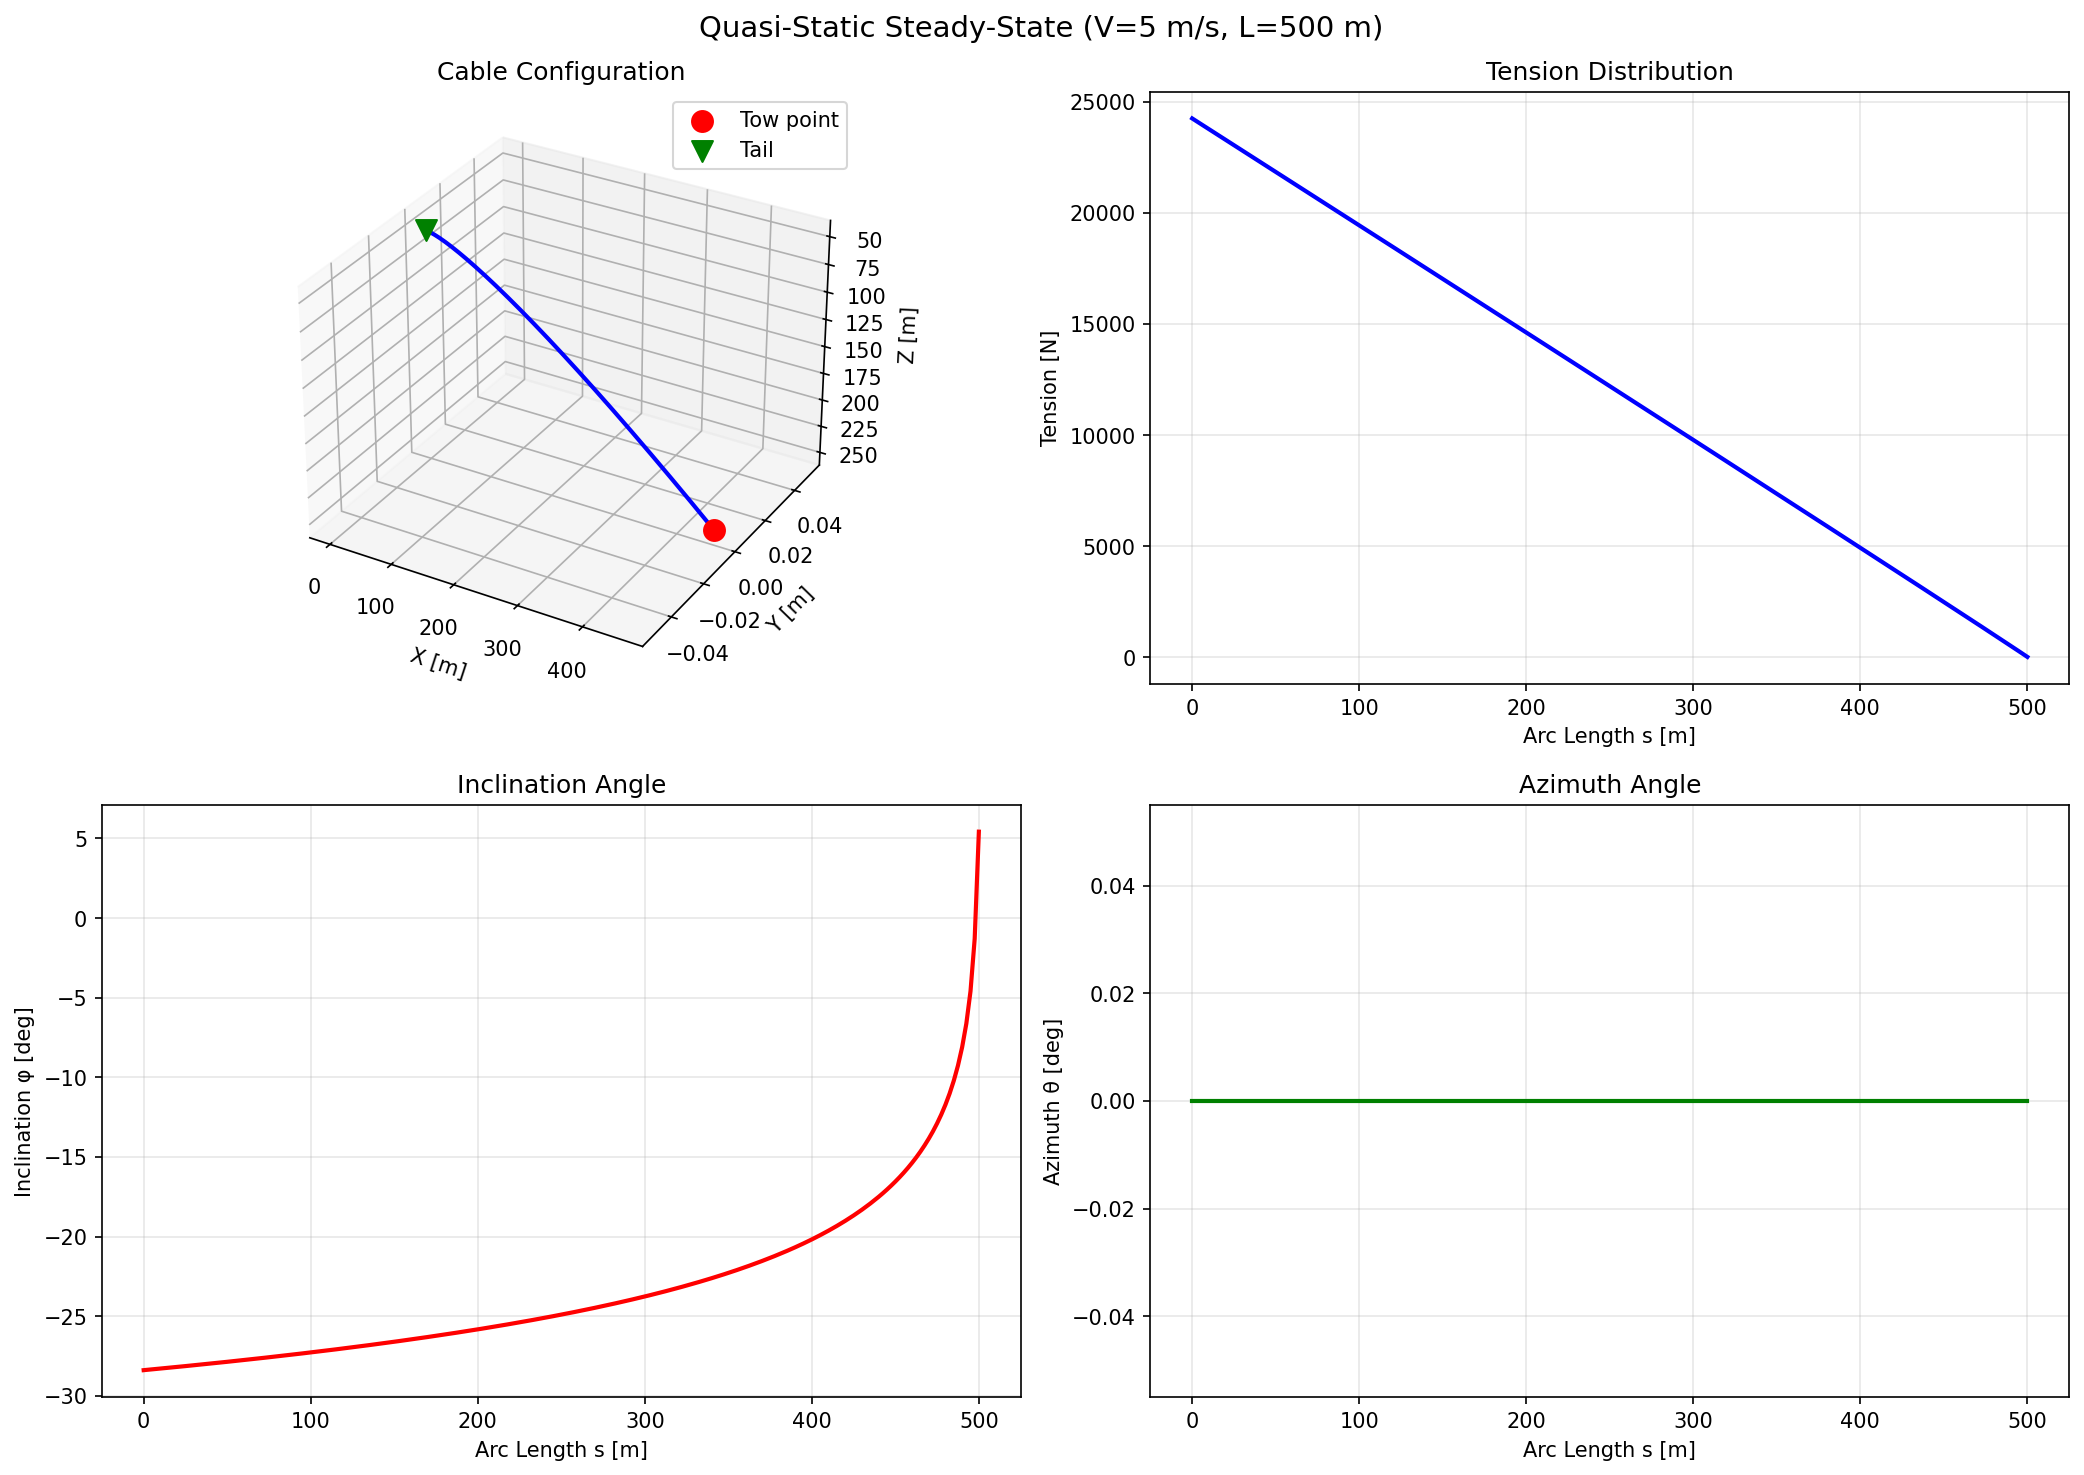
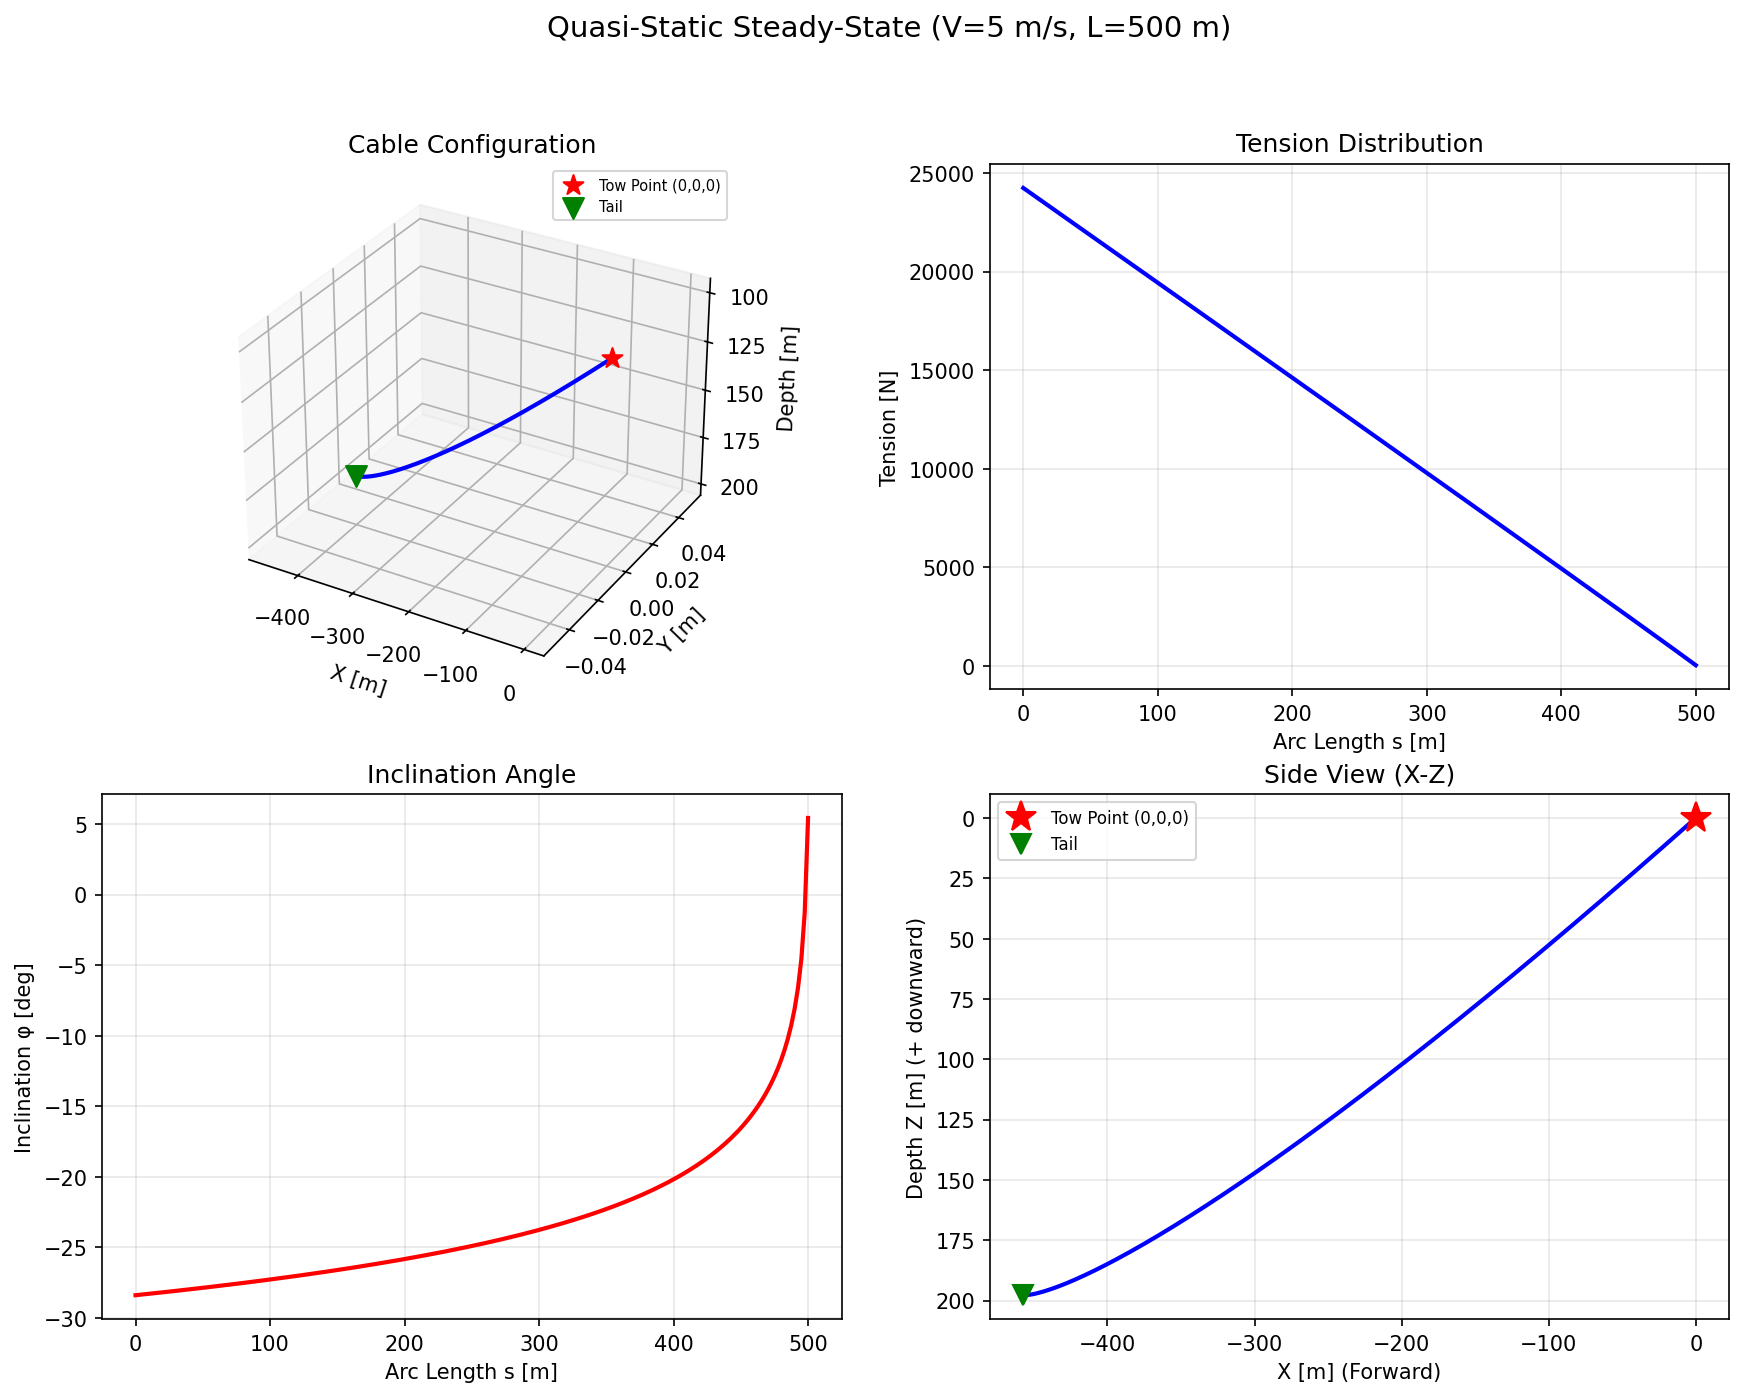
Fix coordinate system: tow point at origin, Z+ = depth downward
- Quasi-static solver now shifts positions so tow point is at (0,0,0)
- Z axis convention: positive Z = depth (downward from tow point)
- Trajectory depth defaults to 0 (tow point at origin)
- Updated all visualizations for consistent Z+ = depth display
- Side view correctly shows cable hanging below tow point

https://claude.ai/code/session_01HiJZDsfaCU8hXaw1C4XUdp

diff --git a/tass_visualization.py b/tass_visualization.py
@@ -3,6 +3,11 @@ TASS Motion Analysis Visualization Module
 ==========================================
 
 Provides 2D and 3D visualization of towed array sonar system simulation results.
+
+Coordinate convention:
+  - X: forward (tow direction)
+  - Y: lateral (starboard positive)
+  - Z: depth (downward positive, Z=0 at tow point)
 """
 
 import numpy as np
@@ -18,11 +23,7 @@ def plot_cable_3d(results: dict, time_indices: Optional[list] = None,
                   save_path: Optional[str] = None):
     """
     Plot 3D cable configurations at selected time steps.
-
-    Args:
-        results: simulation results dictionary
-        time_indices: list of time indices to plot (None = auto-select)
-        save_path: path to save figure (None = show)
+    Z+ = depth (downward). Tow point at origin.
     """
     fig = plt.figure(figsize=(14, 10))
     ax = fig.add_subplot(111, projection='3d')
@@ -41,27 +42,34 @@ def plot_cable_3d(results: dict, time_indices: Optional[list] = None,
         pos = positions[idx]
         t = times[idx]
         color = cmap(norm(t))
-        ax.plot(pos[:, 0], pos[:, 1], pos[:, 2],
+        # Plot with -Z so depth appears downward visually in 3D
+        ax.plot(pos[:, 0], pos[:, 1], -pos[:, 2],
                 color=color, alpha=0.7, linewidth=1.5,
                 label=f't = {t:.0f} s')
-        # Mark tow point
-        ax.scatter(*pos[0], color=color, s=30, marker='o')
-        # Mark tail
-        ax.scatter(*pos[-1], color=color, s=20, marker='v')
+        ax.scatter(pos[0, 0], pos[0, 1], -pos[0, 2],
+                   color=color, s=30, marker='o')
+        ax.scatter(pos[-1, 0], pos[-1, 1], -pos[-1, 2],
+                   color=color, s=20, marker='v')
 
     # Plot tow point trajectory
     tow_pts = results['tow_points']
-    ax.plot(tow_pts[:, 0], tow_pts[:, 1], tow_pts[:, 2],
+    ax.plot(tow_pts[:, 0], tow_pts[:, 1], -tow_pts[:, 2],
             'r--', linewidth=2, label='Tow point path')
+
+    # Mark origin
+    ax.scatter(0, 0, 0, color='red', s=100, marker='*', zorder=10,
+               label='Origin (Tow Point t=0)')
 
     ax.set_xlabel('X [m] (Forward)')
     ax.set_ylabel('Y [m] (Lateral)')
-    ax.set_zlabel('Z [m] (Depth)')
+    ax.set_zlabel('Depth [m]')
     ax.set_title(title)
-    ax.legend(fontsize=8, loc='upper left')
+    ax.legend(fontsize=7, loc='upper left')
 
-    # Invert Z axis (depth increases downward)
-    ax.invert_zaxis()
+    # Set Z tick labels to show positive depth values
+    zticks = ax.get_zticks()
+    ax.set_zticks(zticks)
+    ax.set_zticklabels([f'{-z:.0f}' for z in zticks])
 
     plt.tight_layout()
     if save_path:
@@ -102,6 +110,9 @@ def plot_cable_xy(results: dict, time_indices: Optional[list] = None,
     ax.plot(tow_pts[:, 0], tow_pts[:, 1], 'r--', linewidth=2,
             label='Tow point path')
 
+    # Mark origin
+    ax.plot(0, 0, 'r*', markersize=15, label='Origin')
+
     ax.set_xlabel('X [m] (Forward)')
     ax.set_ylabel('Y [m] (Lateral)')
     ax.set_title(title)
@@ -121,7 +132,7 @@ def plot_cable_xy(results: dict, time_indices: Optional[list] = None,
 def plot_cable_xz(results: dict, time_indices: Optional[list] = None,
                   title: str = "TASS Cable Side View (X-Z)",
                   save_path: Optional[str] = None):
-    """Plot cable configuration in side view (X-Z plane)."""
+    """Plot cable configuration in side view (X-Z plane). Z+ = depth downward."""
     fig, ax = plt.subplots(figsize=(12, 6))
 
     positions = results['positions']
@@ -141,11 +152,14 @@ def plot_cable_xz(results: dict, time_indices: Optional[list] = None,
         ax.plot(pos[:, 0], pos[:, 2], color=color, linewidth=1.5,
                 label=f't = {t:.0f} s')
 
+    # Mark origin
+    ax.plot(0, 0, 'r*', markersize=15, label='Origin (Tow Point)')
+
     ax.set_xlabel('X [m] (Forward)')
-    ax.set_ylabel('Z [m] (Depth)')
+    ax.set_ylabel('Depth Z [m] (+ downward)')
     ax.set_title(title)
     ax.legend(fontsize=8)
-    ax.invert_yaxis()
+    ax.invert_yaxis()  # So depth increases downward visually
     ax.grid(True, alpha=0.3)
 
     plt.tight_layout()
@@ -182,7 +196,7 @@ def plot_tension_distribution(results: dict, time_indices: Optional[list] = None
         color = cmap(norm(t))
         ax.plot(s, T, color=color, linewidth=1.5, label=f't = {t:.0f} s')
 
-    ax.set_xlabel('Arc Length s [m]')
+    ax.set_xlabel('Arc Length s [m] (from tow point)')
     ax.set_ylabel('Tension [N]')
     ax.set_title(title)
     ax.legend(fontsize=8)
@@ -252,6 +266,7 @@ def plot_tail_trajectory(results: dict,
     axes[0].plot(tow_pts[:, 0], tow_pts[:, 1], 'r--', linewidth=1.5,
                  label='Tow point')
     axes[0].plot(tail_x, tail_y, 'b-', linewidth=1.5, label='Array tail')
+    axes[0].plot(0, 0, 'r*', markersize=12, label='Origin')
     axes[0].set_xlabel('X [m]')
     axes[0].set_ylabel('Y [m]')
     axes[0].set_title('Plan View (X-Y)')
@@ -268,14 +283,13 @@ def plot_tail_trajectory(results: dict,
     axes[1].set_title('Tail Lateral Offset')
     axes[1].grid(True, alpha=0.3)
 
-    # Depth history
+    # Depth history (Z+ = depth)
     axes[2].plot(times, tail_z, 'b-', linewidth=1.5, label='Array tail')
     axes[2].plot(times, tow_pts[:, 2], 'r--', linewidth=1.5, label='Tow point')
     axes[2].set_xlabel('Time [s]')
-    axes[2].set_ylabel('Depth [m]')
+    axes[2].set_ylabel('Depth Z [m] (+ downward)')
     axes[2].set_title('Depth History')
     axes[2].legend()
-    axes[2].invert_yaxis()
     axes[2].grid(True, alpha=0.3)
 
     fig.suptitle(title, fontsize=14)
@@ -291,8 +305,11 @@ def plot_tail_trajectory(results: dict,
 def plot_quasi_static_results(qs_results: dict,
                                title: str = "Quasi-Static Steady-State Solution",
                                save_path: Optional[str] = None):
-    """Plot results from quasi-static analysis."""
-    fig, axes = plt.subplots(2, 2, figsize=(14, 10))
+    """
+    Plot results from quasi-static analysis.
+    Tow point at origin (0,0,0). Z+ = depth (downward).
+    """
+    fig = plt.figure(figsize=(14, 10))
 
     pos = qs_results['positions']
     T = qs_results['tensions']
@@ -302,39 +319,47 @@ def plot_quasi_static_results(qs_results: dict,
 
     # 3D cable shape
     ax3d = fig.add_subplot(221, projection='3d')
-    ax3d.plot(pos[:, 0], pos[:, 1], pos[:, 2], 'b-', linewidth=2)
-    ax3d.scatter(*pos[0], color='red', s=100, marker='o', label='Tow point')
-    ax3d.scatter(*pos[-1], color='green', s=100, marker='v', label='Tail')
+    ax3d.plot(pos[:, 0], pos[:, 1], -pos[:, 2], 'b-', linewidth=2)
+    ax3d.scatter(pos[0, 0], pos[0, 1], -pos[0, 2],
+                 color='red', s=100, marker='*', label='Tow Point (0,0,0)')
+    ax3d.scatter(pos[-1, 0], pos[-1, 1], -pos[-1, 2],
+                 color='green', s=100, marker='v', label='Tail')
     ax3d.set_xlabel('X [m]')
     ax3d.set_ylabel('Y [m]')
-    ax3d.set_zlabel('Z [m]')
+    ax3d.set_zlabel('Depth [m]')
     ax3d.set_title('Cable Configuration')
-    ax3d.legend()
-    ax3d.invert_zaxis()
-
-    # Remove the flat subplot at position 221 (replaced by 3D)
-    axes[0, 0].remove()
+    ax3d.legend(fontsize=7)
+    # Z tick labels show positive depth
+    zticks = ax3d.get_zticks()
+    ax3d.set_zticklabels([f'{-z:.0f}' for z in zticks])
 
     # Tension distribution
-    axes[0, 1].plot(s, T, 'b-', linewidth=2)
-    axes[0, 1].set_xlabel('Arc Length s [m]')
-    axes[0, 1].set_ylabel('Tension [N]')
-    axes[0, 1].set_title('Tension Distribution')
-    axes[0, 1].grid(True, alpha=0.3)
+    ax_t = fig.add_subplot(222)
+    ax_t.plot(s, T, 'b-', linewidth=2)
+    ax_t.set_xlabel('Arc Length s [m]')
+    ax_t.set_ylabel('Tension [N]')
+    ax_t.set_title('Tension Distribution')
+    ax_t.grid(True, alpha=0.3)
 
     # Inclination angle
-    axes[1, 0].plot(s, phi, 'r-', linewidth=2)
-    axes[1, 0].set_xlabel('Arc Length s [m]')
-    axes[1, 0].set_ylabel('Inclination φ [deg]')
-    axes[1, 0].set_title('Inclination Angle')
-    axes[1, 0].grid(True, alpha=0.3)
+    ax_phi = fig.add_subplot(223)
+    ax_phi.plot(s, phi, 'r-', linewidth=2)
+    ax_phi.set_xlabel('Arc Length s [m]')
+    ax_phi.set_ylabel('Inclination φ [deg]')
+    ax_phi.set_title('Inclination Angle')
+    ax_phi.grid(True, alpha=0.3)
 
-    # Azimuth angle
-    axes[1, 1].plot(s, theta, 'g-', linewidth=2)
-    axes[1, 1].set_xlabel('Arc Length s [m]')
-    axes[1, 1].set_ylabel('Azimuth θ [deg]')
-    axes[1, 1].set_title('Azimuth Angle')
-    axes[1, 1].grid(True, alpha=0.3)
+    # Side view (X-Z)
+    ax_xz = fig.add_subplot(224)
+    ax_xz.plot(pos[:, 0], pos[:, 2], 'b-', linewidth=2)
+    ax_xz.plot(pos[0, 0], pos[0, 2], 'r*', markersize=15, label='Tow Point (0,0,0)')
+    ax_xz.plot(pos[-1, 0], pos[-1, 2], 'gv', markersize=10, label='Tail')
+    ax_xz.set_xlabel('X [m] (Forward)')
+    ax_xz.set_ylabel('Depth Z [m] (+ downward)')
+    ax_xz.set_title('Side View (X-Z)')
+    ax_xz.invert_yaxis()  # Depth increases downward visually
+    ax_xz.legend(fontsize=8)
+    ax_xz.grid(True, alpha=0.3)
 
     fig.suptitle(title, fontsize=14)
     plt.tight_layout()

diff --git a/tass_cable_model.py b/tass_cable_model.py
@@ -460,6 +460,13 @@ class TASSCableModel:
 
         # Reverse so index 0 = tow point
         positions = np.column_stack([x[::-1], y[::-1], z[::-1]])
+
+        # Shift so tow point is at origin (0,0,0)
+        tow_pt = positions[0].copy()
+        positions -= tow_pt
+        # Negate Z so that Z+ = depth (downward from tow point)
+        positions[:, 2] = -positions[:, 2]
+
         self.positions = positions
 
         return {
@@ -482,10 +489,10 @@ class TowShipTrajectory:
     """
 
     def __init__(self, speed: float = 5.0, heading_init: float = 0.0,
-                 depth: float = 10.0):
+                 depth: float = 0.0):
         self.speed = speed
         self.heading = heading_init
-        self.depth = depth
+        self.depth = depth  # Z=0 means tow point at origin
         self.position = np.array([0.0, 0.0, depth])
 
     def straight_line(self, t: float) -> Tuple[np.ndarray, np.ndarray]:
@@ -604,19 +611,19 @@ class TASSSimulation:
         self.trajectory = trajectory
 
     def initialize_steady_state(self, tow_velocity: np.ndarray,
-                                 depth: float = 50.0):
+                                 depth: float = 0.0):
         """
         Initialize the dynamic model with a straight-line configuration
         behind the tow point at t=0.
 
-        The cable is placed along the tow direction with a slight
-        catenary droop, matching the initial tow point from the trajectory.
+        Tow point starts at origin (0,0,0). Cable extends in -X direction
+        and +Z direction (deeper). Z+ = depth (downward).
         """
         tow_pos_0, tow_vel_0 = self.trajectory.straight_line(0.0)
         speed = np.linalg.norm(tow_velocity[:2])
         ds = self.model.ds
 
-        # Compute catenary angle
+        # Compute catenary angle from drag/weight balance
         f_t = 0.5 * self.env.rho_water * self.cable_props.Cd_t * np.pi * \
               self.cable_props.diameter * speed ** 2
         w = self.model.submerged_weight
@@ -626,14 +633,14 @@ class TASSSimulation:
         else:
             cat_angle = np.radians(2)
 
-        # Place nodes behind the tow point
+        # Place nodes behind the tow point (tow point at origin)
         direction = tow_velocity / max(np.linalg.norm(tow_velocity), 1e-10)
         for i in range(self.model.n_nodes):
             s = i * ds
             self.model.positions[i] = tow_pos_0.copy()
             self.model.positions[i, 0] -= s * np.cos(cat_angle) * direction[0]
             self.model.positions[i, 1] -= s * np.cos(cat_angle) * direction[1]
-            self.model.positions[i, 2] += s * np.sin(cat_angle)
+            self.model.positions[i, 2] += s * np.sin(cat_angle)  # +Z = deeper
             self.model.velocities[i] = tow_vel_0.copy()
 
         # Also run quasi-static for reference

diff --git a/run_tass_simulation.py b/run_tass_simulation.py
@@ -59,13 +59,12 @@ def scenario_quasi_static():
 
     tow_speed = 5.0  # m/s (~10 knots)
     tow_velocity = np.array([tow_speed, 0.0, 0.0])
-    tow_depth = 50.0
 
     print(f"  Tow speed: {tow_speed} m/s ({tow_speed * 1.944:.1f} knots)")
     print(f"  Cable length: {cable.length} m")
-    print(f"  Tow depth: {tow_depth} m")
+    print(f"  Tow point: (0, 0, 0), Z+ = depth downward")
 
-    qs_result = model.solve_quasi_static(tow_velocity, depth=tow_depth)
+    qs_result = model.solve_quasi_static(tow_velocity, depth=0.0)
 
     print(f"\n  Results:")
     print(f"    Tow point tension: {qs_result['tensions'][0]:.1f} N")
@@ -94,9 +93,9 @@ def scenario_straight_tow():
     )
 
     sim = TASSSimulation(cable, env, n_elements=50, dt=0.02)
-    trajectory = TowShipTrajectory(speed=5.0, depth=10.0)
+    trajectory = TowShipTrajectory(speed=5.0, depth=0.0)
     sim.set_trajectory(trajectory)
-    sim.initialize_steady_state(np.array([5.0, 0.0, 0.0]), depth=10.0)
+    sim.initialize_steady_state(np.array([5.0, 0.0, 0.0]))
 
     results = sim.run(t_end=60.0, save_interval=10, maneuver='straight')
 
@@ -129,9 +128,9 @@ def scenario_turning():
     )
 
     sim = TASSSimulation(cable, env, n_elements=50, dt=0.02)
-    trajectory = TowShipTrajectory(speed=5.0, depth=10.0)
+    trajectory = TowShipTrajectory(speed=5.0, depth=0.0)
     sim.set_trajectory(trajectory)
-    sim.initialize_steady_state(np.array([5.0, 0.0, 0.0]), depth=10.0)
+    sim.initialize_steady_state(np.array([5.0, 0.0, 0.0]))
 
     turn_radius = 500.0
     print(f"  Turn radius: {turn_radius} m")
@@ -165,9 +164,9 @@ def scenario_s_turn():
     )
 
     sim = TASSSimulation(cable, env, n_elements=50, dt=0.02)
-    trajectory = TowShipTrajectory(speed=5.0, depth=10.0)
+    trajectory = TowShipTrajectory(speed=5.0, depth=0.0)
     sim.set_trajectory(trajectory)
-    sim.initialize_steady_state(np.array([5.0, 0.0, 0.0]), depth=10.0)
+    sim.initialize_steady_state(np.array([5.0, 0.0, 0.0]))
 
     turn_radius = 400.0
     turn_duration = 50.0
